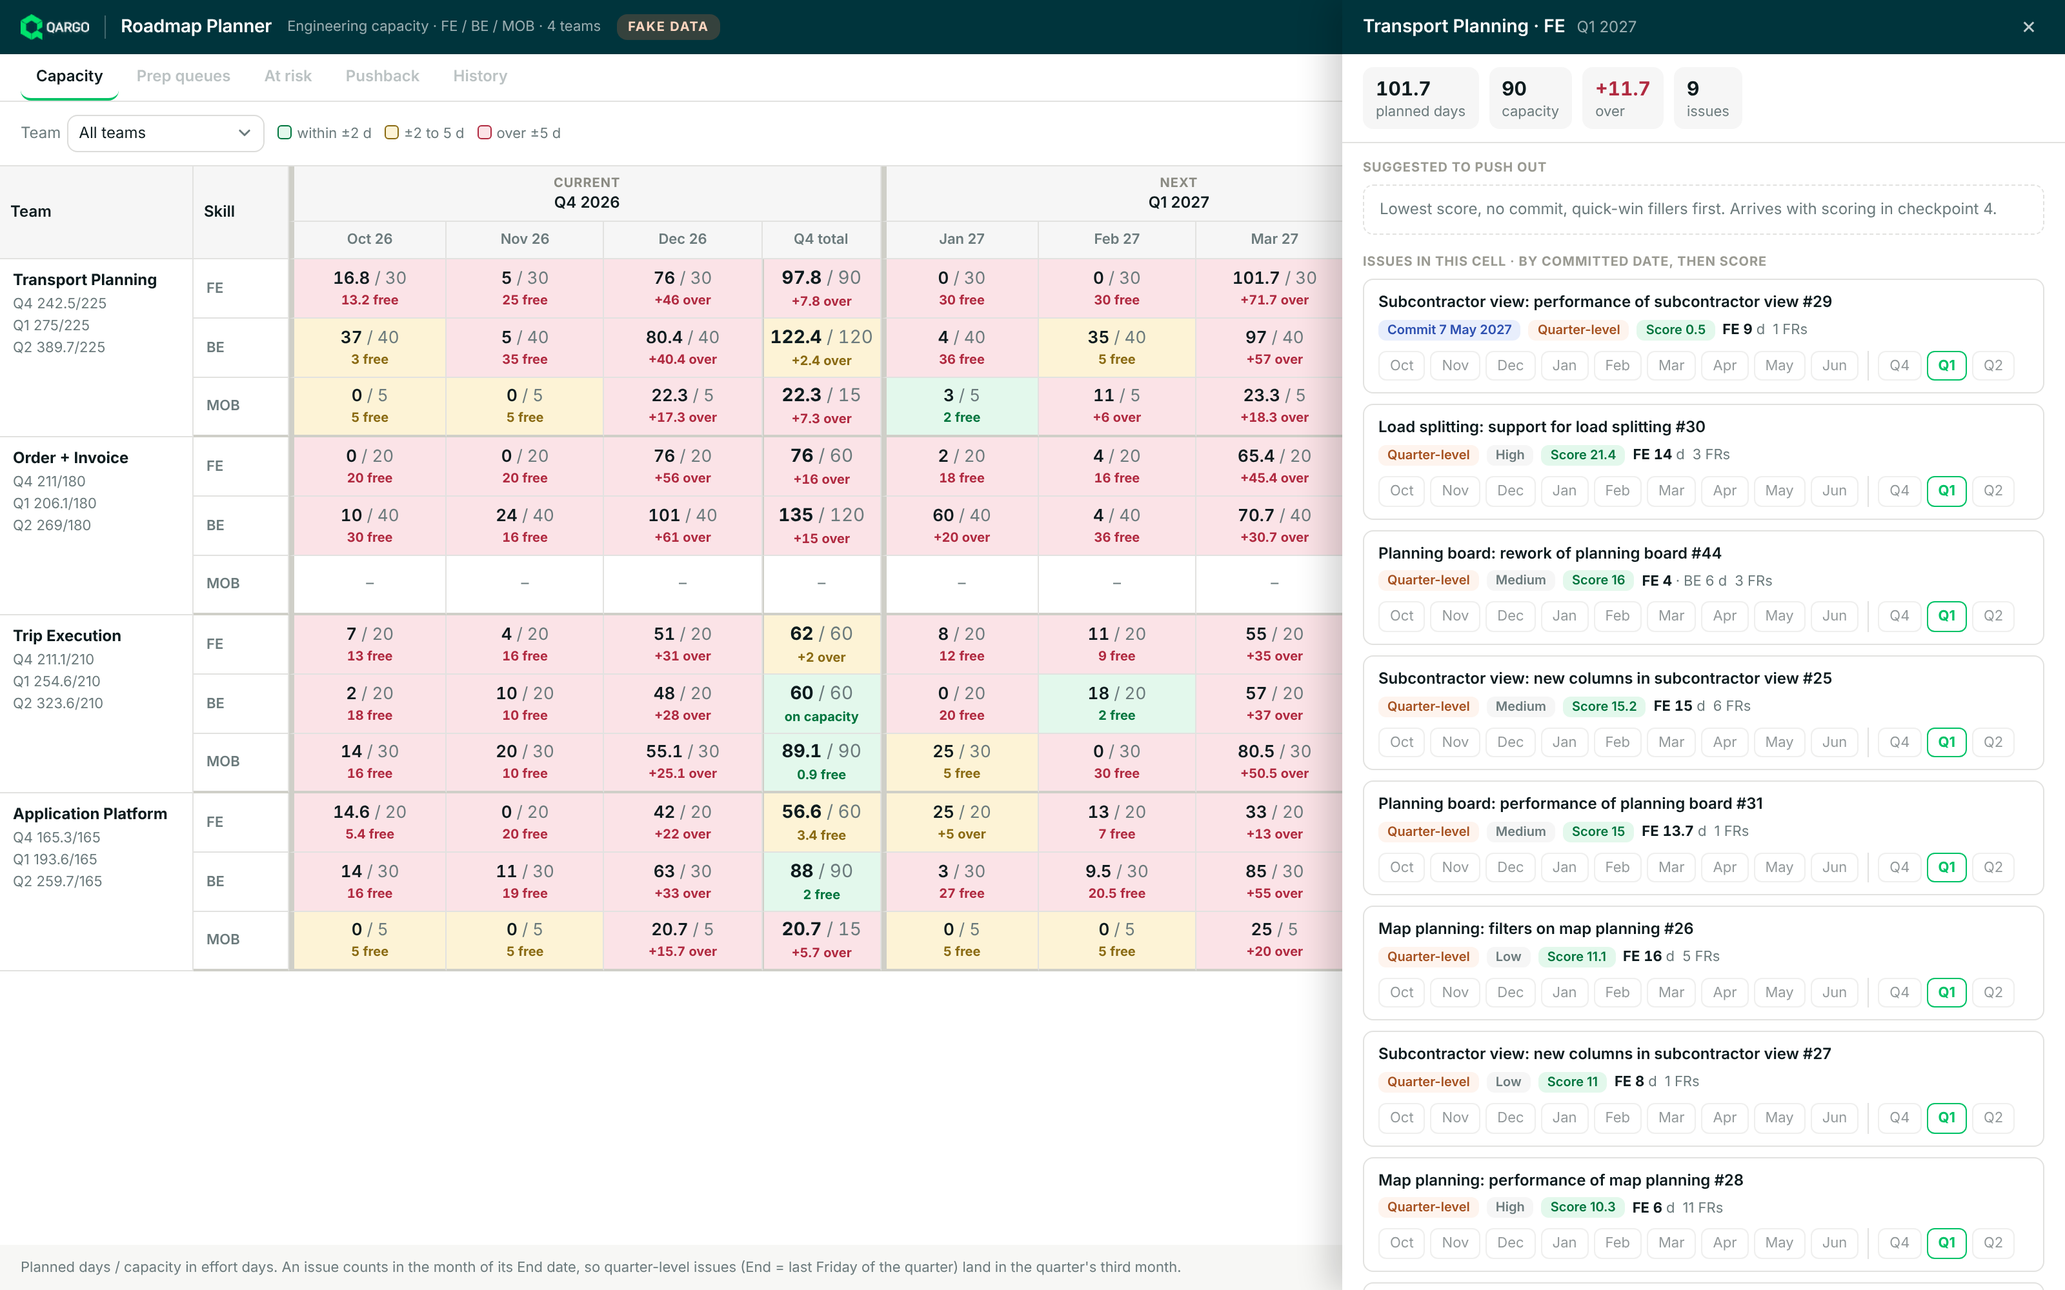
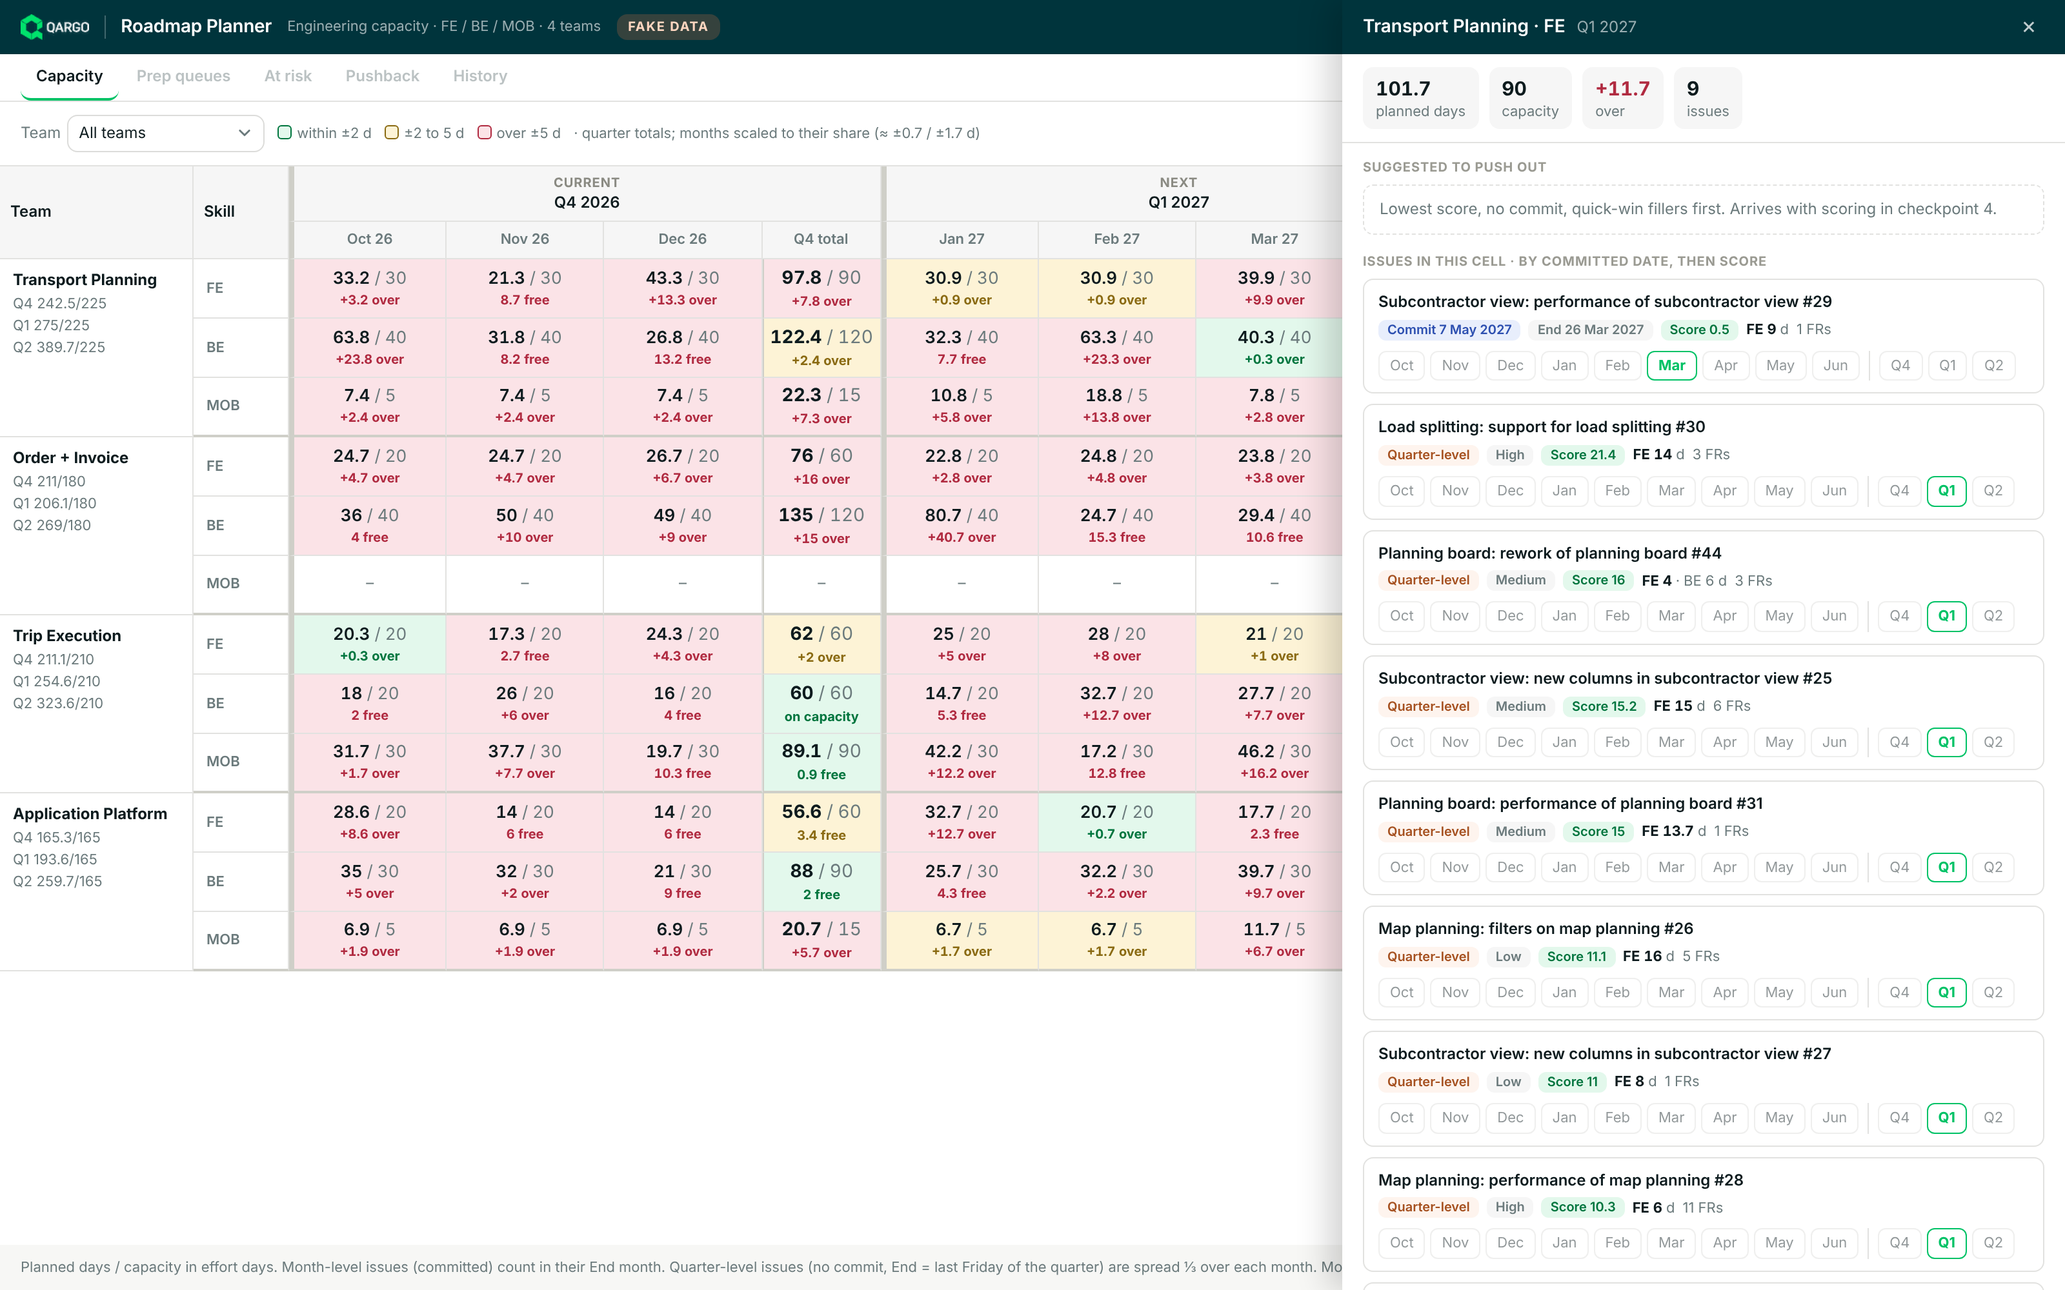
Checkpoint 1 rev: spread quarter-level effort, scale month thresholds
Decisions from Tom (2026-10-09), recorded in SPEC.md and CLAUDE.md:
- Quarter-level issues (no commit, End = quarter's last Friday) spread 1/3 per month
- Month cell thresholds scale with month share of quarter capacity
- Test issue is 'Test Tom - ignore'; write-back is Start and End only

Claude-Session: https://claude.ai/code/session_01XsKd44qXQpBiwf2E6HxLbu

diff --git a/src/capacity.js b/src/capacity.js
@@ -3,25 +3,46 @@
 // input as-is. The real capacity formula (allocations, part-time, holidays)
 // lands in checkpoint 2 and must match the Lightdash capacity planner exactly.
 
-import { monthKey } from './periods.js';
+import { monthKey, quarterOf, lastFridayOfQuarter } from './periods.js';
 
 export const TEAMS = ['Transport Planning', 'Order + Invoice', 'Trip Execution', 'Application Platform'];
 export const SKILLS = ['FE', 'BE', 'MOB'];
 export const SKILL_LABEL = { FE: 'Frontend', BE: 'Backend', MOB: 'Mobile' };
 
-// SPEC.md > Capacity grid: green within ±2 days, amber to ±5, red beyond.
-export function cellStatus(planned, capacity) {
+// SPEC.md > Capacity grid: quarter totals green within ±2 days, amber to ±5,
+// red beyond. Month cells pass scale = month capacity / quarter capacity.
+export function cellStatus(planned, capacity, scale = 1) {
   const diff = Math.abs(planned - capacity);
-  if (diff <= 2) return 'ok';
-  if (diff <= 5) return 'amber';
+  if (diff <= 2 * scale + 1e-9) return 'ok';
+  if (diff <= 5 * scale + 1e-9) return 'amber';
   return 'red';
+}
+
+/** Quarter-level = End on the quarter's last Friday and no committed date (SPEC.md). */
+export function isQuarterLevel(issue) {
+  if (!issue.end || issue.committed) return false;
+  const { year, q } = quarterOf(issue.end);
+  return issue.end === lastFridayOfQuarter(year, q);
+}
+
+/**
+ * Where an issue's effort counts: [{ month, share }].
+ * Quarter-level issues spread ⅓ over the quarter's months; others count fully in their End month.
+ */
+export function placement(issue) {
+  if (!issue.end) return [];
+  if (isQuarterLevel(issue)) {
+    const { year, q } = quarterOf(issue.end);
+    return [0, 1, 2].map((i) => ({ month: `${year}-${String((q - 1) * 3 + i + 1).padStart(2, '0')}`, share: 1 / 3 }));
+  }
+  return [{ month: monthKey(issue.end), share: 1 }];
 }
 
 export const cellId = (team, skill, period) => `${team}|${skill}|${period}`;
 
 /**
  * Planned days per team × skill × month, keyed by cellId.
- * An issue counts in the month of its End date (placeholder Start = End).
+ * Effort is placed per placement(): quarter-level spread ⅓ per month, others in their End month.
  * Issues without a team or outside the horizon are returned separately.
  */
 export function plannedByCell(issues, horizon) {
@@ -31,14 +52,16 @@ export function plannedByCell(issues, horizon) {
   const outside = [];
   for (const issue of issues) {
     if (!issue.end) continue;
-    const mk = monthKey(issue.end);
-    if (!months.has(mk)) { outside.push(issue); continue; }
+    const parts = placement(issue);
+    if (!months.has(parts[0].month)) { outside.push(issue); continue; }
     if (!TEAMS.includes(issue.team)) { noTeam.push(issue); continue; }
     for (const skill of SKILLS) {
       const days = issue.effort[skill] || 0;
       if (!days) continue;
-      const id = cellId(issue.team, skill, mk);
-      cells.set(id, (cells.get(id) || 0) + days);
+      for (const { month, share } of parts) {
+        const id = cellId(issue.team, skill, month);
+        cells.set(id, (cells.get(id) || 0) + days * share);
+      }
     }
   }
   return { cells, noTeam, outside };
@@ -51,13 +74,16 @@ export function buildGrid(issues, capacity, horizon) {
   for (const team of TEAMS) {
     for (const skill of SKILLS) {
       const quarters = horizon.map((q) => {
-        const months = q.months.map((m) => {
-          const planned = cells.get(cellId(team, skill, m.key)) || 0;
-          const cap = capacity[cellId(team, skill, m.key)] || 0;
-          return { key: m.key, planned, capacity: cap, status: cellStatus(planned, cap) };
-        });
-        const planned = months.reduce((s, m) => s + m.planned, 0);
-        const cap = months.reduce((s, m) => s + m.capacity, 0);
+        const raw = q.months.map((m) => ({
+          key: m.key,
+          planned: cells.get(cellId(team, skill, m.key)) || 0,
+          capacity: capacity[cellId(team, skill, m.key)] || 0,
+        }));
+        const planned = raw.reduce((s, m) => s + m.planned, 0);
+        const cap = raw.reduce((s, m) => s + m.capacity, 0);
+        const months = raw.map((m) => ({
+          ...m, status: cellStatus(m.planned, m.capacity, cap ? m.capacity / cap : 1 / 3),
+        }));
         return { key: q.key, months, planned, capacity: cap, status: cellStatus(planned, cap) };
       });
       rows.push({ team, skill, quarters });
@@ -66,12 +92,17 @@ export function buildGrid(issues, capacity, horizon) {
   return { rows, noTeam, outside };
 }
 
-/** Issues in one cell: committed date first (earliest first, none last), then score high to low. */
+/**
+ * Issues in one cell with the share of their effort counted there,
+ * committed date first (earliest first, none last), then score high to low.
+ */
 export function issuesInCell(issues, team, skill, periodKeys) {
   const keys = new Set(periodKeys);
   return issues
-    .filter((i) => i.team === team && i.end && keys.has(monthKey(i.end)) && (i.effort[skill] || 0) > 0)
-    .sort((a, b) => {
+    .filter((i) => i.team === team && (i.effort[skill] || 0) > 0)
+    .map((i) => ({ issue: i, share: placement(i).filter((p) => keys.has(p.month)).reduce((s, p) => s + p.share, 0) }))
+    .filter((x) => x.share > 0)
+    .sort(({ issue: a }, { issue: b }) => {
       if (a.committed && b.committed) return a.committed.localeCompare(b.committed) || b.score - a.score;
       if (a.committed) return -1;
       if (b.committed) return 1;

diff --git a/test/capacity.test.js b/test/capacity.test.js
@@ -1,9 +1,11 @@
 import { test } from 'node:test';
 import assert from 'node:assert/strict';
-import { cellStatus, buildGrid, issuesInCell, cellId } from '../src/capacity.js';
+import { cellStatus, buildGrid, issuesInCell, cellId, isQuarterLevel, placement } from '../src/capacity.js';
 import { horizon } from '../src/periods.js';
 
-test('cell status thresholds: ±2 green, ±5 amber, beyond red', () => {
+const close = (a, b) => assert.ok(Math.abs(a - b) < 1e-9, `${a} ≈ ${b}`);
+
+test('quarter thresholds: ±2 green, ±5 amber, beyond red', () => {
   assert.equal(cellStatus(42, 40), 'ok');
   assert.equal(cellStatus(38, 40), 'ok');
   assert.equal(cellStatus(42.5, 40), 'amber');
@@ -12,33 +14,56 @@ test('cell status thresholds: ±2 green, ±5 amber, beyond red', () => {
   assert.equal(cellStatus(30, 40), 'red');
 });
 
+test('month thresholds scale with the month share of quarter capacity', () => {
+  // Even quarter: scale 1/3 -> ±0.67 green, ±1.67 amber.
+  assert.equal(cellStatus(30.6, 30, 1 / 3), 'ok');
+  assert.equal(cellStatus(31, 30, 1 / 3), 'amber');
+  assert.equal(cellStatus(31.7, 30, 1 / 3), 'red');
+  // Exact boundaries are inclusive.
+  assert.equal(cellStatus(32, 30, 1), 'ok');
+  assert.equal(cellStatus(35, 30, 1), 'amber');
+});
+
 const h = horizon('2026-10-09');
 const mk = (id, team, end, effort, extra = {}) => ({ id, title: id, team, end, start: end, effort: { FE: 0, BE: 0, MOB: 0, ...effort }, score: 0, committed: null, ...extra });
 
-test('effort lands in the month of End, per skill; quarter totals sum the months', () => {
+test('quarter-level = last Friday of quarter AND no committed date', () => {
+  assert.equal(isQuarterLevel(mk('a', 'Trip Execution', '2026-12-25', {})), true);
+  assert.equal(isQuarterLevel(mk('b', 'Trip Execution', '2026-12-25', {}, { committed: '2027-02-01' })), false);
+  assert.equal(isQuarterLevel(mk('c', 'Trip Execution', '2026-11-27', {})), false);
+  assert.deepEqual(placement(mk('a', 'X', '2027-03-26', {})).map((p) => p.month), ['2027-01', '2027-02', '2027-03']);
+});
+
+test('quarter-level effort spreads ⅓ per month; month-level counts fully in End month', () => {
   const issues = [
-    mk('a', 'Trip Execution', '2026-11-27', { FE: 3, MOB: 5 }),
-    mk('b', 'Trip Execution', '2026-12-25', { MOB: 4 }),
+    mk('a', 'Trip Execution', '2026-11-27', { FE: 3, MOB: 5 }, { committed: '2027-01-15' }),
+    mk('b', 'Trip Execution', '2026-12-25', { MOB: 9 }),                              // quarter-level
+    mk('e', 'Trip Execution', '2026-12-25', { MOB: 2 }, { committed: '2027-02-01' }), // Dec, month-level
     mk('c', null, '2026-12-25', { BE: 50 }),
     mk('d', 'Trip Execution', '2027-09-24', { MOB: 9 }),
   ];
   const cap = { [cellId('Trip Execution', 'MOB', '2026-11')]: 10, [cellId('Trip Execution', 'MOB', '2026-12')]: 10 };
   const g = buildGrid(issues, cap, h);
   const mob = g.rows.find((r) => r.team === 'Trip Execution' && r.skill === 'MOB').quarters[0];
-  assert.deepEqual(mob.months.map((m) => m.planned), [0, 5, 4]);
-  assert.equal(mob.planned, 9);
+  const p = mob.months.map((m) => m.planned);
+  close(p[0], 3); close(p[1], 8); close(p[2], 5);
+  close(mob.planned, 16);
   assert.equal(mob.capacity, 20);
-  assert.equal(g.rows.find((r) => r.team === 'Trip Execution' && r.skill === 'FE').quarters[0].months[1].planned, 3);
   assert.deepEqual(g.noTeam.map((i) => i.id), ['c']);
   assert.deepEqual(g.outside.map((i) => i.id), ['d']);
 });
 
-test('cell issue order: committed date first, then score', () => {
+test('cell issues carry their share, ordered by committed date then score', () => {
   const issues = [
-    mk('x', 'Order + Invoice', '2026-11-27', { BE: 2 }, { score: 9 }),
+    mk('x', 'Order + Invoice', '2026-12-25', { BE: 2 }, { score: 9 }),               // quarter-level
     mk('y', 'Order + Invoice', '2026-11-27', { BE: 2 }, { score: 1, committed: '2027-01-10' }),
     mk('z', 'Order + Invoice', '2026-11-27', { BE: 2 }, { score: 5, committed: '2026-12-15' }),
-    mk('w', 'Order + Invoice', '2026-11-27', { FE: 2 }, { score: 99 }),
+    mk('w', 'Order + Invoice', '2026-11-27', { FE: 2 }, { score: 99, committed: '2026-12-01' }),
+    mk('v', 'Order + Invoice', '2026-10-30', { BE: 2 }, { score: 50, committed: '2026-11-30' }),
   ];
-  assert.deepEqual(issuesInCell(issues, 'Order + Invoice', 'BE', ['2026-11']).map((i) => i.id), ['z', 'y', 'x']);
+  const nov = issuesInCell(issues, 'Order + Invoice', 'BE', ['2026-11']);
+  assert.deepEqual(nov.map((x) => x.issue.id), ['z', 'y', 'x']);
+  close(nov[2].share, 1 / 3);
+  const q4 = issuesInCell(issues, 'Order + Invoice', 'BE', ['2026-10', '2026-11', '2026-12']);
+  assert.deepEqual(q4.map((x) => [x.issue.id, Math.round(x.share * 3)]), [['v', 3], ['z', 3], ['y', 3], ['x', 3]]);
 });

diff --git a/src/ui/drawer.js b/src/ui/drawer.js
@@ -1,8 +1,8 @@
 // Cell drawer: the issues behind one grid cell, plus the layout of the
 // date buttons (disabled until checkpoint 5) and suggestions (checkpoint 4).
 
-import { issuesInCell, SKILLS } from '../capacity.js';
-import { formatDate, isQuarterPlacement, monthKey } from '../periods.js';
+import { issuesInCell, isQuarterLevel, SKILLS } from '../capacity.js';
+import { formatDate, monthKey } from '../periods.js';
 
 const esc = (s) => String(s).replace(/[&<>"]/g, (c) => ({ '&': '&amp;', '<': '&lt;', '>': '&gt;', '"': '&quot;' }[c]));
 const fmt = (n) => (Math.round(n * 10) / 10).toString();
@@ -18,7 +18,7 @@ function periodInfo(horizon, period) {
 
 function dateButtons(issue, horizon) {
   const endMonth = monthKey(issue.end);
-  const quarterLevel = isQuarterPlacement(issue.end);
+  const quarterLevel = isQuarterLevel(issue);
   let h = '<div class="datebtns">';
   for (const q of horizon) for (const m of q.months) {
     const cur = !quarterLevel && m.key === endMonth;
@@ -32,13 +32,14 @@ function dateButtons(issue, horizon) {
   return h + '</div>';
 }
 
-function issueCard(issue, skill, horizon) {
+function issueCard({ issue, share }, skill, horizon) {
   const late = issue.committed && issue.end > issue.committed;
   const eff = SKILLS.map((s) => (issue.effort[s] ? (s === skill ? `<b>${s} ${fmt(issue.effort[s])}</b>` : `${s} ${fmt(issue.effort[s])}`) : null))
     .filter(Boolean).join(' · ');
   const tags = [
     issue.committed ? `<span class="tag ${late ? 'late' : 'commit'}">${late ? 'After commit ' : 'Commit '}${formatDate(issue.committed)}</span>` : '',
-    isQuarterPlacement(issue.end) ? '<span class="tag qtr">Quarter-level</span>' : `<span class="tag">End ${formatDate(issue.end)}</span>`,
+    isQuarterLevel(issue) ? '<span class="tag qtr">Quarter-level</span>' : `<span class="tag">End ${formatDate(issue.end)}</span>`,
+    share < 1 ? `<span class="tag" title="Quarter-level effort is spread evenly over the quarter's 3 months">⅓ counted here</span>` : '',
     issue.priority ? `<span class="tag">${issue.priority}</span>` : '',
     issue.status === 'Blocked' ? '<span class="tag blocked">Blocked</span>' : '',
     `<span class="tag score">Score ${fmt(issue.score)}</span>`,
@@ -76,7 +77,7 @@ export function openDrawer(el, { issues, grid, horizon, team, skill, period }) {
         ? 'Lowest score, no commit, quick-win fillers first.'
         : 'Highest score that fits the free days.'} Arrives with scoring in checkpoint 4.</div>
       <h4>Issues in this cell · by committed date, then score</h4>
-      ${list.map((i) => issueCard(i, skill, horizon)).join('') || '<div class="placeholder">No issues.</div>'}
+      ${list.map((x) => issueCard(x, skill, horizon)).join('') || '<div class="placeholder">No issues.</div>'}
     </div>`;
   el.classList.add('open');
 }

diff --git a/src/ui/app.js b/src/ui/app.js
@@ -64,13 +64,14 @@ function shell() {
           <span><span class="sw ok"></span>within ±2 d</span>
           <span><span class="sw amber"></span>±2 to 5 d</span>
           <span><span class="sw red"></span>over ±5 d</span>
+          <span>· quarter totals; months scaled to their share (≈ ±0.7 / ±1.7 d)</span>
         </span>
         <span class="spacer" style="flex:1"></span>
         <button id="themeBtn" title="Light / dark">Theme</button>
       </div>
     </header>
     <main class="gridwrap" id="grid"></main>
-    <div class="note">Planned days / capacity in effort days. An issue counts in the month of its End date, so quarter-level issues (End = last Friday of the quarter) land in the quarter's third month.</div>
+    <div class="note">Planned days / capacity in effort days. Month-level issues (committed) count in their End month. Quarter-level issues (no commit, End = last Friday of the quarter) are spread ⅓ over each month. Month colours use the quarter's ±2 / ±5 days scaled to the month's share of capacity.</div>
     <aside class="drawer" id="drawer"></aside>`;
 
   document.getElementById('teamSel').addEventListener('change', (e) => { state.teamFilter = e.target.value; draw(); });

diff --git a/test/periods.test.js b/test/periods.test.js
@@ -1,6 +1,6 @@
 import { test } from 'node:test';
 import assert from 'node:assert/strict';
-import { lastFridayOfMonth, lastFridayOfQuarter, horizon, isQuarterPlacement } from '../src/periods.js';
+import { lastFridayOfMonth, lastFridayOfQuarter, horizon } from '../src/periods.js';
 
 test('last Friday of month', () => {
   assert.equal(lastFridayOfMonth(2026, 9), '2026-10-30');
@@ -25,9 +25,4 @@ test('horizon on 2026-10-09 = Q4 2026 current, Q1 2027 next, Q2 2027 pot', () =>
 test('horizon rolls over on the first day of a quarter', () => {
   assert.equal(horizon('2026-12-31')[0].key, '2026-Q4');
   assert.equal(horizon('2027-01-01')[0].key, '2027-Q1');
-});
-
-test('quarter-level placement detection', () => {
-  assert.equal(isQuarterPlacement('2026-12-25'), true);
-  assert.equal(isQuarterPlacement('2026-11-27'), false);
 });

diff --git a/src/periods.js b/src/periods.js
@@ -77,12 +77,6 @@ export function horizon(todayISO) {
   return out;
 }
 
-/** True when an issue's End sits on its quarter's last Friday (quarter-level placement). */
-export function isQuarterPlacement(endISO) {
-  const { year, q } = quarterOf(endISO);
-  return endISO === lastFridayOfQuarter(year, q);
-}
-
 export function formatDate(iso) {
   if (!iso) return '';
   const d = parseISO(iso);

diff --git a/SPEC.md b/SPEC.md
@@ -106,7 +106,10 @@ The main screen is the capacity puzzle; everything else feeds it or warns about 
 **1. Capacity grid (main screen)**
 
 - Rows: 4 teams × FE / BE / MOB. Columns: current quarter, next quarter, pot, each split into its 3 months.
-- Each cell: planned days vs capacity. Green within ±2 days, amber to ±5, red beyond.
+- Each cell: planned days vs capacity. Quarter totals: green within ±2 days, amber to ±5, red beyond.
+- Month cells: the same thresholds scaled by the month's share of the quarter's capacity (month capacity ÷ quarter capacity × 2 and × 5, so about ±0.7 / ±1.7 days for an even quarter). Decided 2026-10-09.
+- Quarter-level issues are spread evenly over the quarter's 3 months (⅓ of the effort in each). Month-level issues count in their End month. Decided 2026-10-09.
+- Quarter-level = End on the last Friday of the quarter AND no committed date. A committed issue on that same date is month-level (the quarter's third month), because committed issues are always planned on months.
 - Click a cell: the issues in it, sorted by committed date then score.
 - Overbooked cell: suggested issues to push out (lowest score, no commit, quick-win fillers first). Underbooked cell: suggested issues to pull forward (highest score that fits).
 

diff --git a/CLAUDE.md b/CLAUDE.md
@@ -20,7 +20,8 @@ A claude.ai artifact (published with the `mcp` capability) for planning engineer
 - Verify per team and per skill (FE/BE/MOB) against Lightdash before trusting our numbers.
 
 ## Notion writes
-- Write ONLY to the test issue "ROADMAP PLANNER TEST - ignore" until Tom explicitly approves writing to real issues.
+- Write ONLY to the test issue "Test Tom - ignore" (page ID `3f4e32e8-f8c8-80ef-9c6d-c3a0c44b1af1`) until Tom explicitly approves writing to real issues.
+- Write ONLY Start and End. Never effort, team, status or anything else.
 - Every Notion write produces an audit entry: who, when, issue, before, after, reason.
 
 ## Working style
